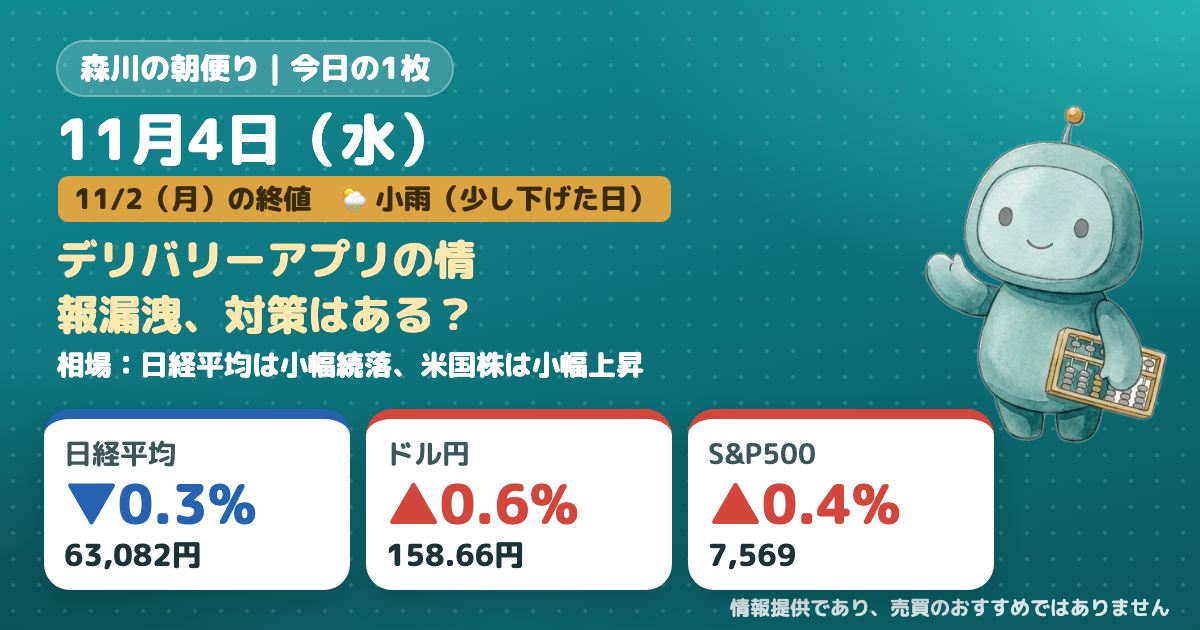
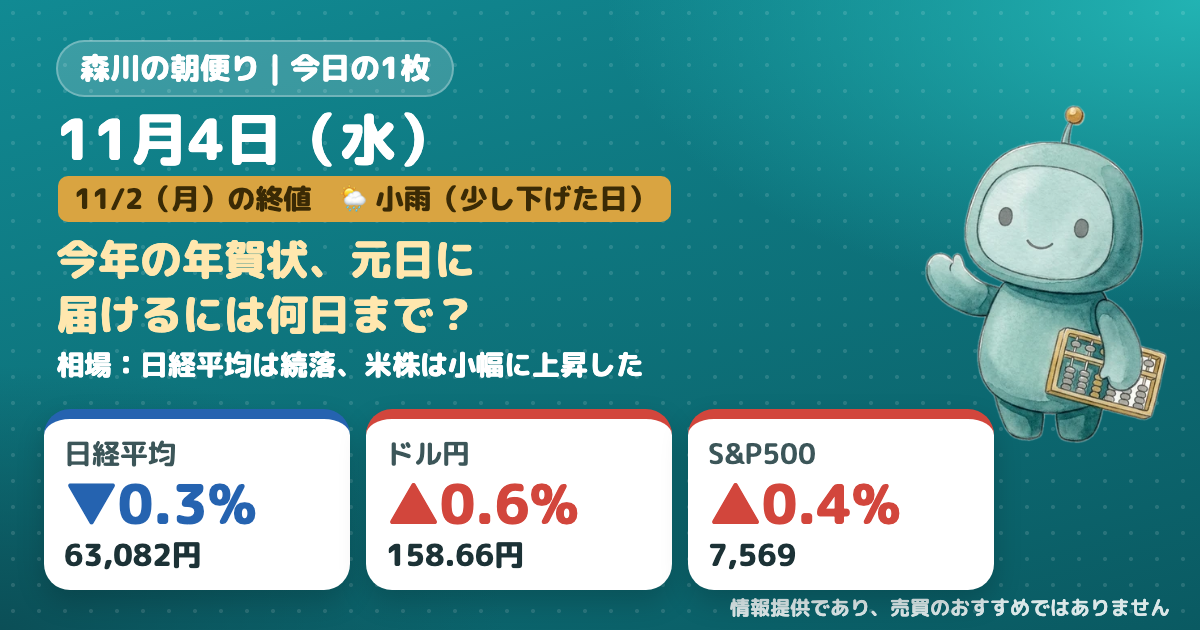
今日の1枚 1104

Changed region(s): [[0.0308, 0.3619, 0.555, 0.6032]]

diff --git a/1104/index.html b/1104/index.html
@@ -1,4 +1,4 @@
-<!doctype html><html lang="ja"><head><meta charset="utf-8"><meta name="viewport" content="width=device-width,initial-scale=1"><title>森川の朝便り 11月4日（水）</title><meta property="og:title" content="森川の朝便り 11月4日（水）｜日経平均は小幅続落、米国株は小幅上昇"><meta property="og:description" content="11/2（月）の終値と、今日のニュース2本・用語をまとめました。ユメカネサロン"><meta property="og:image" content="https://mm738966m-boop.github.io/asa/1104/og.png"><meta property="og:image:width" content="1200"><meta property="og:image:height" content="630"><meta property="og:type" content="article"><meta name="twitter:card" content="summary_large_image"><meta name="robots" content="noindex"><link rel="preconnect" href="https://fonts.googleapis.com"><link rel="preconnect" href="https://fonts.gstatic.com" crossorigin><link href="https://fonts.googleapis.com/css2?family=M+PLUS+Rounded+1c:wght@500;700;800&family=Noto+Sans+JP:wght@500;700&display=swap" rel="stylesheet"><style>
+<!doctype html><html lang="ja"><head><meta charset="utf-8"><meta name="viewport" content="width=device-width,initial-scale=1"><title>森川の朝便り 11月4日（水）</title><meta property="og:title" content="森川の朝便り 11月4日（水）｜日経平均は続落、米株は小幅に上昇した"><meta property="og:description" content="11/2（月）の終値と、今日のニュース2本・用語をまとめました。ユメカネサロン"><meta property="og:image" content="https://mm738966m-boop.github.io/asa/1104/og.png"><meta property="og:image:width" content="1200"><meta property="og:image:height" content="630"><meta property="og:type" content="article"><meta name="twitter:card" content="summary_large_image"><meta name="robots" content="noindex"><link rel="preconnect" href="https://fonts.googleapis.com"><link rel="preconnect" href="https://fonts.gstatic.com" crossorigin><link href="https://fonts.googleapis.com/css2?family=M+PLUS+Rounded+1c:wght@500;700;800&family=Noto+Sans+JP:wght@500;700&display=swap" rel="stylesheet"><style>
 :root{--teal:#0E7C86;--deep:#0A5A62;--ink:#1C3236;--ink2:#3C5659;--soft:#EEF6F7;--line:#D5E4E6;--gold:#A87A1F;--goldfill:#D9A441;--goldbg:#FBF4E3;--bg:#F3F8F8;--up:#D2463C;--upbg:#FDECEA;--down:#2563B0;--downbg:#E3EDF9}
 *{box-sizing:border-box}
 body{margin:0;background:var(--bg);color:var(--ink);font-family:"Noto Sans JP",system-ui,sans-serif;font-size:18px;font-weight:500;line-height:1.8}
@@ -58,10 +58,10 @@ h2:before{content:"";width:6px;height:22px;border-radius:3px;background:var(--go
 @keyframes up{from{transform:translateY(14px)}to{transform:none}}
 @media (prefers-reduced-motion:reduce){*{animation:none!important}.draw{stroke-dashoffset:0}}
 @media (max-width:380px){.tval{font-size:18px}.date{font-size:27px}.robo{width:80px}.head{font-size:20px}}
-</style></head><body><div class="wrap"><header class="hero"><span class="brand"><i></i>森川の朝便り｜今日の1枚</span><div class="date">11月4日（水）</div><div class="chips"><span class="basechip">11/2（月）の終値</span><span class="wx">🌦 相場のお天気：小雨（少し下げた日）</span></div><div class="head">日経平均は小幅続落、米国株は小幅上昇</div><img class="robo" src="../img/mascot_base.webp" alt=""></header><section class="tiles"><div class="tile down" style="animation-delay:0.00s"><div class="tname">日経平均</div><div class="tval"><span class="num" data-to="63081.8594" data-dec="0">63,082</span><small>円</small></div><div class="pill down">▼0.3%</div><svg class="spark" viewBox="0 0 120 40" aria-hidden="true"><polygon points="3.0,40 3.0,11.0 15.7,3.5 28.3,27.1 41.0,30.1 53.7,37.0 66.3,22.2 79.0,12.7 91.7,3.0 104.3,21.9 117.0,24.7 117.0,40" fill="var(--down)" opacity=".12"/><polyline points="3.0,11.0 15.7,3.5 28.3,27.1 41.0,30.1 53.7,37.0 66.3,22.2 79.0,12.7 91.7,3.0 104.3,21.9 117.0,24.7" fill="none" stroke="var(--down)" stroke-width="2" stroke-linejoin="round" stroke-linecap="round" class="draw"/><circle cx="117.0" cy="24.7" r="3.2" fill="var(--down)"/></svg><div class="sl">直近10日</div></div><div class="tile up" style="animation-delay:0.08s"><div class="tname">ドル円</div><div class="tval"><span class="num" data-to="158.6620" data-dec="2">158.66</span><small>円</small></div><div class="pill up">▲0.6%</div><svg class="spark" viewBox="0 0 120 40" aria-hidden="true"><polygon points="3.0,40 3.0,9.2 15.7,11.3 28.3,37.0 41.0,31.7 53.7,20.8 66.3,13.5 79.0,16.0 91.7,16.5 104.3,18.4 117.0,3.0 117.0,40" fill="var(--up)" opacity=".12"/><polyline points="3.0,9.2 15.7,11.3 28.3,37.0 41.0,31.7 53.7,20.8 66.3,13.5 79.0,16.0 91.7,16.5 104.3,18.4 117.0,3.0" fill="none" stroke="var(--up)" stroke-width="2" stroke-linejoin="round" stroke-linecap="round" class="draw"/><circle cx="117.0" cy="3.0" r="3.2" fill="var(--up)"/></svg><div class="sl">直近10日</div></div><div class="tile up" style="animation-delay:0.16s"><div class="tname">米国株 S&amp;P500</div><div class="tval"><span class="num" data-to="7568.9199" data-dec="0">7,569</span><small></small></div><div class="pill up">▲0.4%</div><svg class="spark" viewBox="0 0 120 40" aria-hidden="true"><polygon points="3.0,40 3.0,3.0 15.7,17.8 28.3,24.0 41.0,15.7 53.7,8.4 66.3,5.1 79.0,8.8 91.7,30.9 104.3,37.0 117.0,32.7 117.0,40" fill="var(--up)" opacity=".12"/><polyline points="3.0,3.0 15.7,17.8 28.3,24.0 41.0,15.7 53.7,8.4 66.3,5.1 79.0,8.8 91.7,30.9 104.3,37.0 117.0,32.7" fill="none" stroke="var(--up)" stroke-width="2" stroke-linejoin="round" stroke-linecap="round" class="draw"/><circle cx="117.0" cy="32.7" r="3.2" fill="var(--up)"/></svg><div class="sl">直近10日</div></div></section><p class="howto">▼0.3%のような数字は「前の営業日の終値より何%動いたか」です。</p><p class="note">相場は11/2（月）の終値。<br>情報提供であり、売買のおすすめではありません。</p><div class="mine"><span class="av">森</span><div class="who">森川より｜今日読むなら</div><p>日経平均は少し下げましたが、損した日はすぐ忘れるのが僕のやり方です。身近なサービスのセキュリティが気になる人は2本目を読んでみてください。</p></div><p class="reason"><b>動いた理由：</b>ロイターなどによると、米中間選挙を前に様子見の雰囲気が広がり続落しました。</p><h2>今日のニュース2本</h2><a class="news" href="https://mm738966m-boop.github.io/fulfull-links/go/?d=20261104&amp;s=n1&amp;to=https%3A%2F%2Fnews.google.com%2Frss%2Farticles%2FCBMihgFBVV95cUxQTl9HTDlnNEtDSEZqaGo2MHByRFNBQV9nLWRSZFJLWmhkaXp1WTlxVGM5cTVMdTd6OElLSWJEc1Rpd2dMMEJsUFRBTVJvUHNzMVZvSFdYXy1TZ2g4UmZlZjR4RWt6U0ZoaDJybXpuVGNMaV81RUwyVWNMR19BU2RnYXcxVkJ4QQ%3Foc%3D5" style="animation-delay:0.28s"><span class="src">Reuters</span><span class="ntitle">米株調整は「最終局面」、モルガンＳ 中間選挙通過で買いの機会 | ロイター</span><span class="why"><b>暮らしとの関係</b>年末に向けた株高の見通しは、毎月の積立をどう続けるか考える材料になりそうです。</span><span class="more">記事を読む<b>→</b></span></a><a class="news" href="https://mm738966m-boop.github.io/fulfull-links/go/?d=20261104&amp;s=n2&amp;to=https%3A%2F%2Fnews.google.com%2Frss%2Farticles%2FCBMiZEFVX3lxTE5SWUNEaHdHOFltTEVmSXBXb2NDdzhmWEhlRlN1dmNTbDBVVi05MnMxMXhWQWw5ZzhmSDlDU0VXbUVXSl9vWGdQVHZUWThwMFpsdk5EUm9PY0VXVHJaUGFxR2d2d24%3Foc%3D5" style="animation-delay:0.36s"><span class="src">読売新聞</span><span class="ntitle">セブンイレブン「７ＮＯＷ」、委託先に不正アクセス…顧客情報１６万９１５１件漏えいか</span><span class="why"><b>暮らしとの関係</b>約16万件の流出の可能性があり、身近な決済アプリのパスワード点検に役立ちます。</span><span class="more">記事を読む<b>→</b></span></a><h2>今日の用語</h2><div class="term"><div class="tw">ねんきんネット</div><p>自分の年金の見込み額をスマホで確認できる国のサービス。老後の計算はここから。</p><img src="../img/mascot_think.webp" alt=""></div><p class="foot">ユメカネサロン　森川 満章<br>情報提供であり、売買のおすすめではありません。</p></div><script>
+</style></head><body><div class="wrap"><header class="hero"><span class="brand"><i></i>森川の朝便り｜今日の1枚</span><div class="date">11月4日（水）</div><div class="chips"><span class="basechip">11/2（月）の終値</span><span class="wx">🌦 相場のお天気：小雨（少し下げた日）</span></div><div class="head">日経平均は続落、米株は小幅に上昇した</div><img class="robo" src="../img/mascot_base.webp" alt=""></header><section class="tiles"><div class="tile down" style="animation-delay:0.00s"><div class="tname">日経平均</div><div class="tval"><span class="num" data-to="63081.8594" data-dec="0">63,082</span><small>円</small></div><div class="pill down">▼0.3%</div><svg class="spark" viewBox="0 0 120 40" aria-hidden="true"><polygon points="3.0,40 3.0,11.0 15.7,3.5 28.3,27.1 41.0,30.1 53.7,37.0 66.3,22.2 79.0,12.7 91.7,3.0 104.3,21.9 117.0,24.7 117.0,40" fill="var(--down)" opacity=".12"/><polyline points="3.0,11.0 15.7,3.5 28.3,27.1 41.0,30.1 53.7,37.0 66.3,22.2 79.0,12.7 91.7,3.0 104.3,21.9 117.0,24.7" fill="none" stroke="var(--down)" stroke-width="2" stroke-linejoin="round" stroke-linecap="round" class="draw"/><circle cx="117.0" cy="24.7" r="3.2" fill="var(--down)"/></svg><div class="sl">直近10日</div></div><div class="tile up" style="animation-delay:0.08s"><div class="tname">ドル円</div><div class="tval"><span class="num" data-to="158.6560" data-dec="2">158.66</span><small>円</small></div><div class="pill up">▲0.6%</div><svg class="spark" viewBox="0 0 120 40" aria-hidden="true"><polygon points="3.0,40 3.0,9.1 15.7,11.2 28.3,37.0 41.0,31.7 53.7,20.7 66.3,13.4 79.0,15.9 91.7,16.4 104.3,18.4 117.0,3.0 117.0,40" fill="var(--up)" opacity=".12"/><polyline points="3.0,9.1 15.7,11.2 28.3,37.0 41.0,31.7 53.7,20.7 66.3,13.4 79.0,15.9 91.7,16.4 104.3,18.4 117.0,3.0" fill="none" stroke="var(--up)" stroke-width="2" stroke-linejoin="round" stroke-linecap="round" class="draw"/><circle cx="117.0" cy="3.0" r="3.2" fill="var(--up)"/></svg><div class="sl">直近10日</div></div><div class="tile up" style="animation-delay:0.16s"><div class="tname">米国株 S&amp;P500</div><div class="tval"><span class="num" data-to="7568.9199" data-dec="0">7,569</span><small></small></div><div class="pill up">▲0.4%</div><svg class="spark" viewBox="0 0 120 40" aria-hidden="true"><polygon points="3.0,40 3.0,3.0 15.7,17.8 28.3,24.0 41.0,15.7 53.7,8.4 66.3,5.1 79.0,8.8 91.7,30.9 104.3,37.0 117.0,32.7 117.0,40" fill="var(--up)" opacity=".12"/><polyline points="3.0,3.0 15.7,17.8 28.3,24.0 41.0,15.7 53.7,8.4 66.3,5.1 79.0,8.8 91.7,30.9 104.3,37.0 117.0,32.7" fill="none" stroke="var(--up)" stroke-width="2" stroke-linejoin="round" stroke-linecap="round" class="draw"/><circle cx="117.0" cy="32.7" r="3.2" fill="var(--up)"/></svg><div class="sl">直近10日</div></div></section><p class="howto">▼0.3%のような数字は「前の営業日の終値より何%動いたか」です。</p><p class="note">相場は11/2（月）の終値。<br>情報提供であり、売買のおすすめではありません。</p><div class="mine"><span class="av">森</span><div class="who">森川より｜今日読むなら</div><p>株価が下げた日でも、僕の場合は損した日はすぐ忘れるようにしています。年末の準備や投函の期限が気になる人は2本目をのぞいてみてください。</p></div><p class="reason"><b>動いた理由：</b>ロイターによると、米株安への警戒や中間選挙前の様子見で日経平均は続落しました。</p><h2>今日のニュース2本</h2><a class="news" href="https://mm738966m-boop.github.io/fulfull-links/go/?d=20261104&amp;s=a-n1&amp;to=https%3A%2F%2Fnews.google.com%2Frss%2Farticles%2FCBMijgFBVV95cUxNWmJvUEFNRHZMOHNKX2N2MGR0SWRRM3ZoeVFBR3Nkc2M3bXh5NUhRYjlHRzhZVGtBRzh2dkJ0TXFkeU1PcWdpeWxWZDNxWVhTOUYwZi1xLW1FVnZpaUZjZ3kxVFhGWDJVM1cweEJGMXc2X3VxcHVCTEpOMlFpYjB0WHBMVTVUQzlIa2dteGN3%3Foc%3D5" style="animation-delay:0.28s"><span class="src">Reuters</span><span class="ntitle">コラム：2027年は円高に転じるか、日銀の利上げ継続と円相場の行方＝内田稔氏</span><span class="why"><b>暮らしとの関係</b>将来円高が進めば、輸入品の値下がりなど家計の負担減につながる可能性もあります。</span><span class="more">記事を読む<b>→</b></span></a><a class="news" href="https://mm738966m-boop.github.io/fulfull-links/go/?d=20261104&amp;s=a-n2&amp;to=https%3A%2F%2Fnews.google.com%2Frss%2Farticles%2FCBMiZEFVX3lxTE5PbDBQTE1McS1keTB6ZmgtLXI5ZmYzYmFjWW94UlVidzJLajVENzBxdWNwbkJiN1lKNXpsZU9UM0ZBa1JjbzFleDA4NVJVd0NadVVhcktvVWpHQy1sQlNpaGNTRVY%3Foc%3D5" style="animation-delay:0.36s"><span class="src">読売新聞</span><span class="ntitle">年賀状減少、元日に届く「投函の目安」は２日遅い１２月２７日に…引き受け開始も前年より５日遅く</span><span class="why"><b>暮らしとの関係</b>投函締め切りが12月27日へ変更され、年末の準備日程に影響しそうです。</span><span class="more">記事を読む<b>→</b></span></a><h2>今日の用語</h2><div class="term"><div class="tw">ねんきんネット</div><p>自分の年金の見込み額をスマホで確認できる国のサービス。老後の計算はここから。</p><img src="../img/mascot_think.webp" alt=""></div><p class="foot">ユメカネサロン　森川 満章<br>情報提供であり、売買のおすすめではありません。</p></div><script>
 (function(){
   try{var id=localStorage.getItem("yk_id");if(!id){id=Math.random().toString(36).slice(2,10);localStorage.setItem("yk_id",id)}
-  fetch("https://script.google.com/macros/s/AKfycbx7QnYsWl958Lw9dKhrI1QHf0Z-NYsHr8j8uXNtiGmcbmjpe66-V2ed0LtuVKviwpLl/exec?"+new URLSearchParams({d:"20261104",s:"page",id:id,ua:/iPhone|iPad/i.test(navigator.userAgent)?"ios":(/Android/i.test(navigator.userAgent)?"android":"pc"),line:/Line\//i.test(navigator.userAgent)?"1":"0"}),{mode:"no-cors",keepalive:true})}catch(e){}
+  fetch("https://script.google.com/macros/s/AKfycbx7QnYsWl958Lw9dKhrI1QHf0Z-NYsHr8j8uXNtiGmcbmjpe66-V2ed0LtuVKviwpLl/exec?"+new URLSearchParams({d:"20261104",s:"a-page",id:id,ua:/iPhone|iPad/i.test(navigator.userAgent)?"ios":(/Android/i.test(navigator.userAgent)?"android":"pc"),line:/Line\//i.test(navigator.userAgent)?"1":"0"}),{mode:"no-cors",keepalive:true})}catch(e){}
   if(matchMedia("(prefers-reduced-motion:reduce)").matches)return;
   document.querySelectorAll(".num").forEach(function(el){
     var to=parseFloat(el.dataset.to),dec=+el.dataset.dec,t0=null,from=to*0.985;
